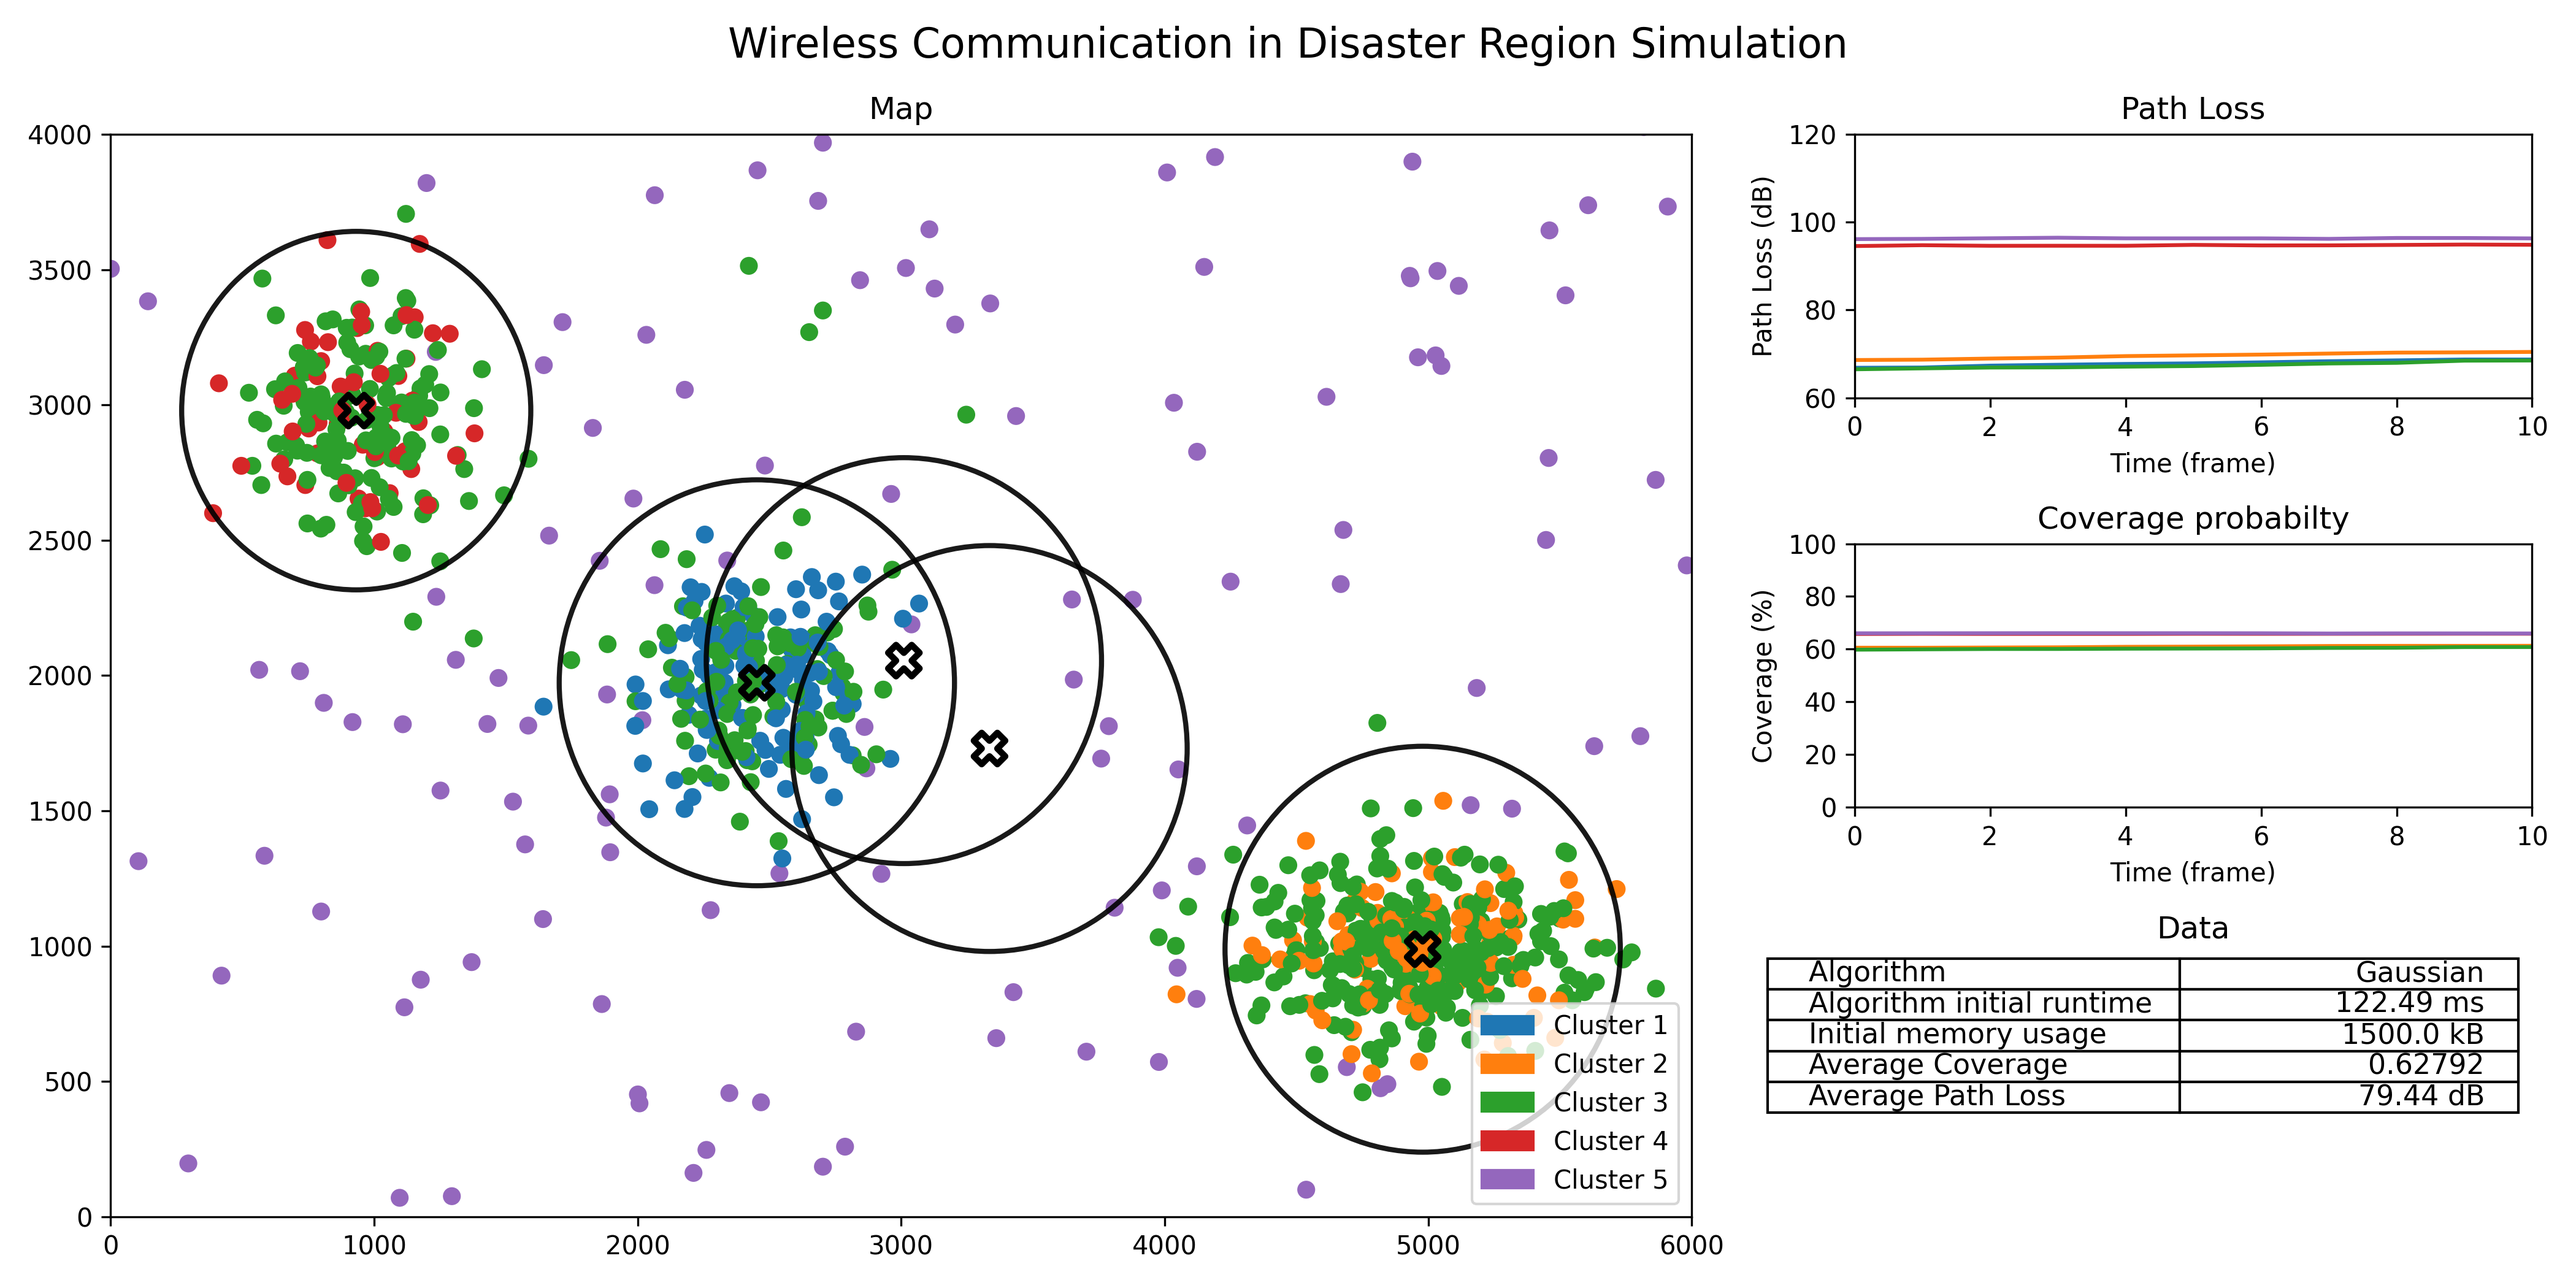
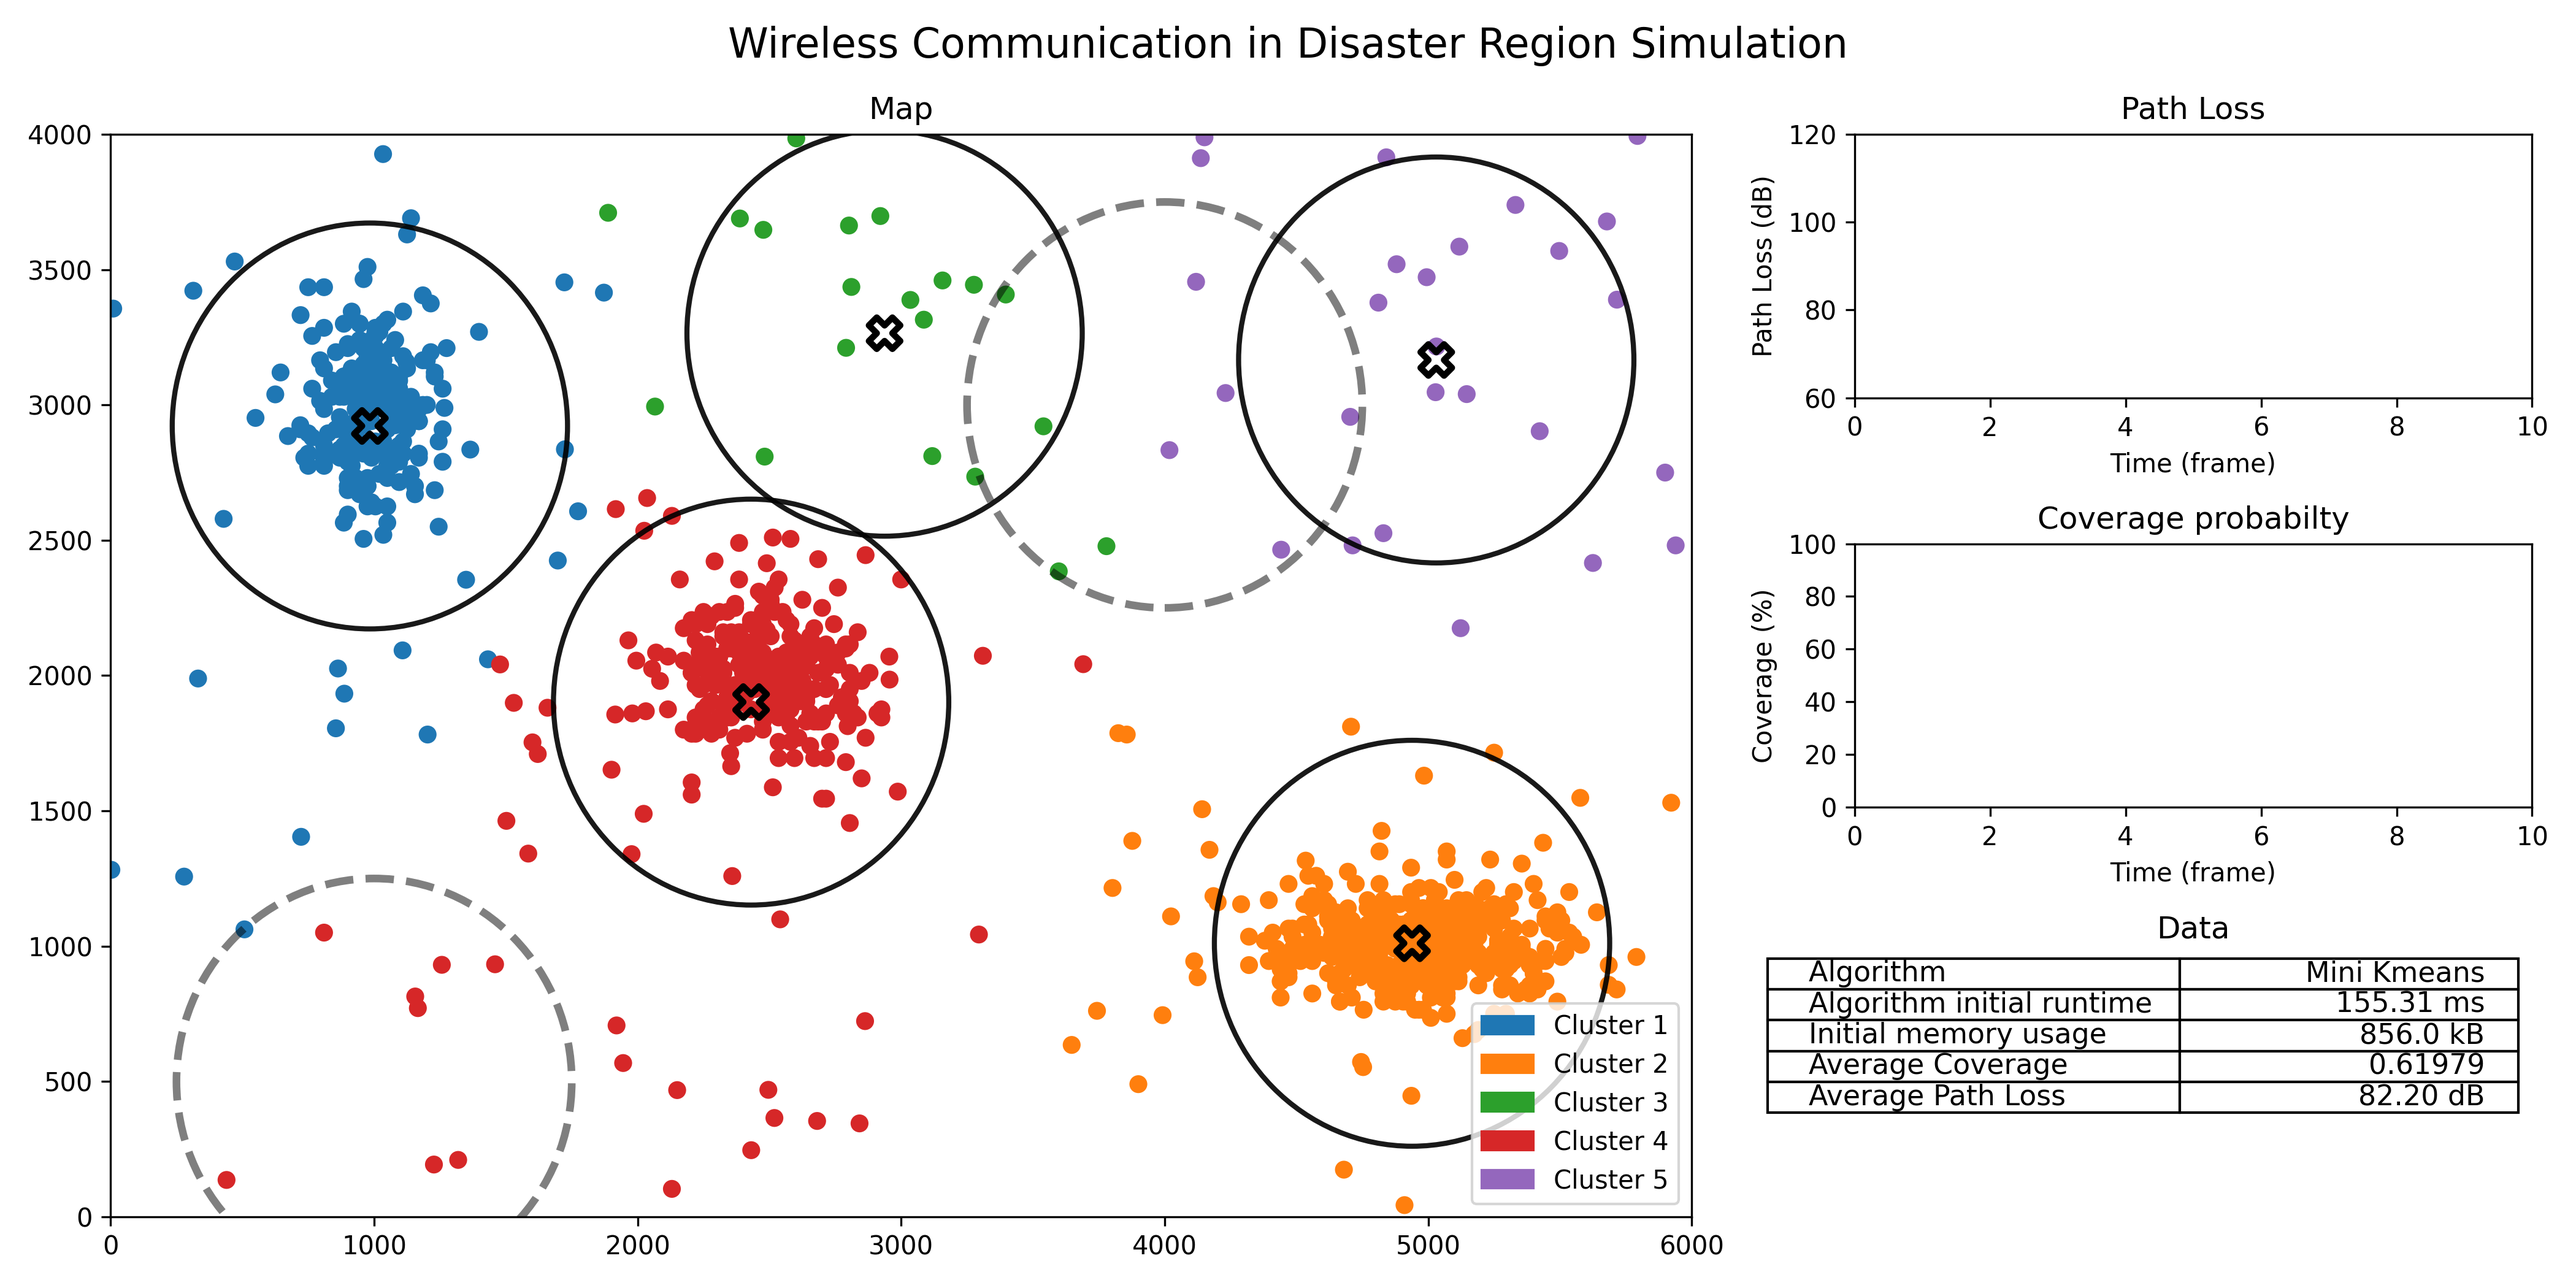
Added evacuation point movement

diff --git a/src/Simulation.py b/src/Simulation.py
@@ -36,6 +36,7 @@ class Simulation:
             self.config["energy"],
             self.dist_obj
         )
+        self.disaster_zones = [] if "disaster_zones" not in self.config.keys() else self.config["disaster_zones"]
         self.cluster_head = []
         self.cluster_member_stats = ClusterMemberStats(self.cluster_member)
         self.initial_runtime = ""
@@ -45,21 +46,21 @@ class Simulation:
         self.pathloss = []
     
     def getClusteringAlgo(self):
-        def setClusterHeadWithCenters(cluster_center: list) -> None:
+        def setClusterHeadWithCenters(cluster_center: np.array) -> None:
             self.center_x, self.center_y, self.center_z = cluster_center.T
             max_distance = self.cluster_member_stats.maxDistance(cluster_center)
             self.cluster_head = []
             for ind in range(len(np.unique(self.labels))):
                 head = ClusterHead(
                     id = ind,
-                    position = [self.center_x[ind],self.center_y[ind],100],
+                    position = np.array([self.center_x[ind],self.center_y[ind],100]),
                     speed = self.config["uav_speed"],
                     max_range = self.config["uav_range"],
                     current_range = min(max_distance[ind],self.config["uav_range"]),
                     energy = self.config["uav_range"]
                 )
                 self.cluster_head.append(head)
-
+            
         def setClusterHeadWithoutCenters() -> None:
             temp_center_x = [[] for ind in range(len(np.unique(self.labels)))]
             temp_center_y = [[] for ind in range(len(np.unique(self.labels)))]
@@ -98,8 +99,9 @@ class Simulation:
             algo = Kmeans()
             algo.setData(self.cluster_member_stats)
             self.clustering = algo.generateModel(n_clusters = 5)
-            self.labels = algo.getLabels()
+            self.labels = algo.label
             self.cluster_member_stats.setBaseStation(self.labels)
+            # setClusterHeadWithCenters(cluster_center=algo.cluster_center)
             setClusterHeadWithCenters(cluster_center=self.clustering.cluster_centers_)
         elif current_algorithm == "mini_kmeans":
             algo = MiniKmeans()
@@ -255,6 +257,31 @@ class Simulation:
                     alpha=0.9)
                 # print(head.id)
                 self.ax[0].add_artist(circle)
+            
+            for zone in self.disaster_zones:
+                rect = plt.Rectangle(
+                    zone[0],
+                    zone[1],
+                    zone[2],
+                    color = "#d11111",
+                    fill = False,
+                    ls = "-",
+                    lw = 3,
+                    hatch = "x")
+                self.ax[0].add_artist(rect)
+            
+            if self.config["dynamic"]:
+                for zone in self.config["evacuate_points"]:
+                    circle = plt.Circle(
+                        zone[0:2], 
+                        750,
+                        fill = False, 
+                        lw = 3, 
+                        alpha = 0.5,
+                        ls = "--",
+                        color = "#000000")
+                    self.ax[0].add_artist(circle)
+
         else:
             self.ax[0].scatter(x,y)
 

diff --git a/src/ClusterMember.py b/src/ClusterMember.py
@@ -48,32 +48,37 @@ class ClusterMemberStats:
             output[current_group] = max(output[current_group],np.linalg.norm(centers[current_group] - cluster.position))
         return output
 
-    def updatePosition(self, cluster_heads:list, towards:bool = False) -> None:
+    def updatePosition(self, setpoint:list, towards:bool = False) -> None:
         for ind in range(len(self.cluster_member)):
             delta = self.cluster_member[ind].mobility.changePos()
             
             distance = 999999999999999999
-            current_cluster_head = cluster_heads[1]
+            current_cluster_head = setpoint[1]
 
-            for i,head in enumerate(cluster_heads):
+            for i,head in enumerate(setpoint):
                 temp  = np.linalg.norm(self.cluster_member[ind].position[0:2]-head[0:2])
                 if distance != min(distance,temp):
                     distance = temp
-                    current_cluster_head = cluster_heads[i]
+                    current_cluster_head = setpoint[i]
             
             # distance = np.linalg.norm(self.cluster_member[ind].position[0:2]-current_cluster_head[0:2])
+            fixed_distance = 250
             if distance >= 500 and towards:
                 x1, y1, z1 = self.cluster_member[ind].position
                 x2, y2, z2 = current_cluster_head
-                if x1 < x2:
+                if x1 < x2 - fixed_distance:
                     self.cluster_member[ind].position[0] = x1+abs(delta[0])*np.random.choice([-1,1],p=[0.3,0.7])*0.6
-                else:
+                elif x1 > x2 + fixed_distance:
                     self.cluster_member[ind].position[0] = x1-abs(delta[0])*np.random.choice([-1,1],p=[0.3,0.7])*0.6
-                if y1 < y2:
-                    self.cluster_member[ind].position[1] = y1+abs(delta[1])*np.random.choice([-1,1],p=[0.3,0.7])*0.4
                 else:
+                    self.cluster_member[ind].position[0] += delta[0]
+                if y1 < y2 - fixed_distance:
+                    self.cluster_member[ind].position[1] = y1+abs(delta[1])*np.random.choice([-1,1],p=[0.3,0.7])*0.4
+                elif y1 > y2 + fixed_distance:
                     self.cluster_member[ind].position[1] = y1-abs(delta[1])*np.random.choice([-1,1],p=[0.3,0.7])*0.4
                     # *np.random.choice([-1,1],p=[0.3,0.7])
+                else:
+                    self.cluster_member[ind].position[1] += delta[1]
             else:
                 self.cluster_member[ind].position[0] += delta[0]
                 self.cluster_member[ind].position[1] += delta[1]

diff --git a/src/ClusterHead.py b/src/ClusterHead.py
@@ -1,10 +1,10 @@
-
+import numpy as np
 
 class ClusterHead:
     def __init__(
         self,
         id: int,
-        position: list[float], #(x,y,z)
+        position: np.array, #(x,y,z)
         speed: float,
         max_range: float,
         current_range: float,
@@ -19,20 +19,17 @@ class ClusterHead:
     
     def updatePosition(
         self,
-        location: list[float]
+        location: np.array
     ) -> float:
-        if self.position == location:
-            return 0
+        distance = np.linalg.norm(location - self.position)
+        if distance < self.speed:
+            self.position = location
+            return distance
         else:
-            distance = np.linalg.norm(location - self.position)
-            if distance < self.speed:
-                self.position = location
-                return distance
-            else:
-                ratio = self.speed/distance
-                self.position = [
-                    (1-ratio)*self.position[0] + ratio*location[0],
-                    (1-ratio)*self.position[1] + ratio*location[1],
-                    (1-ratio)*self.position[2] + ratio*location[2]]
-                return self.speed
+            ratio = self.speed/distance
+            self.position = [
+                (1-ratio)*self.position[0] + ratio*location[0],
+                (1-ratio)*self.position[1] + ratio*location[1],
+                (1-ratio)*self.position[2] + ratio*location[2]]
+            return self.speed
 

diff --git a/src/ClusterAlgo.py b/src/ClusterAlgo.py
@@ -28,13 +28,17 @@ class Kmeans:
         else:
             self.model = KMeans(n_clusters=n_clusters, n_init=n_init)
         self.model.fit(self.data)
-        self.stats.setBaseStation(self.model.labels_)
+        self.cluster_center = [list(x) for x in self.model.cluster_centers_]
+        self.label = self.model.labels_
+        # temp = sorted(zip(self.cluster_center,np.unique(self.label)))
+        # self.cluster_center = np.array([x for x,_ in temp])
+        # self.label = [temp[x][1] for x in self.model.labels_]
+        self.stats.setBaseStation(self.label)
+
         return self.model
     
-    def getLabels(
-        self,
-    ) -> list:
-        return self.model.labels_
+    def getLabels(self) -> list:
+        return self.label
     
     # TODO implement
     def getOptimalCluster(
@@ -244,4 +248,3 @@ class Markov:
         self,
     ) -> list:
         return self.model.predict(self.data)
-

diff --git a/test.py b/test.py
@@ -7,5 +7,9 @@ import yaml
 # for i in range(10):
 #     print(Distribution().getDistribution("normal",[0,1,1]))
 
-for i in range(10):
-    print(Distribution().getDistribution("normal", [0,5,2]))
+# with open("config.yml") as f:
+#     config = yaml.safe_load(f)
+
+a = [1]
+
+print(bool(a))
